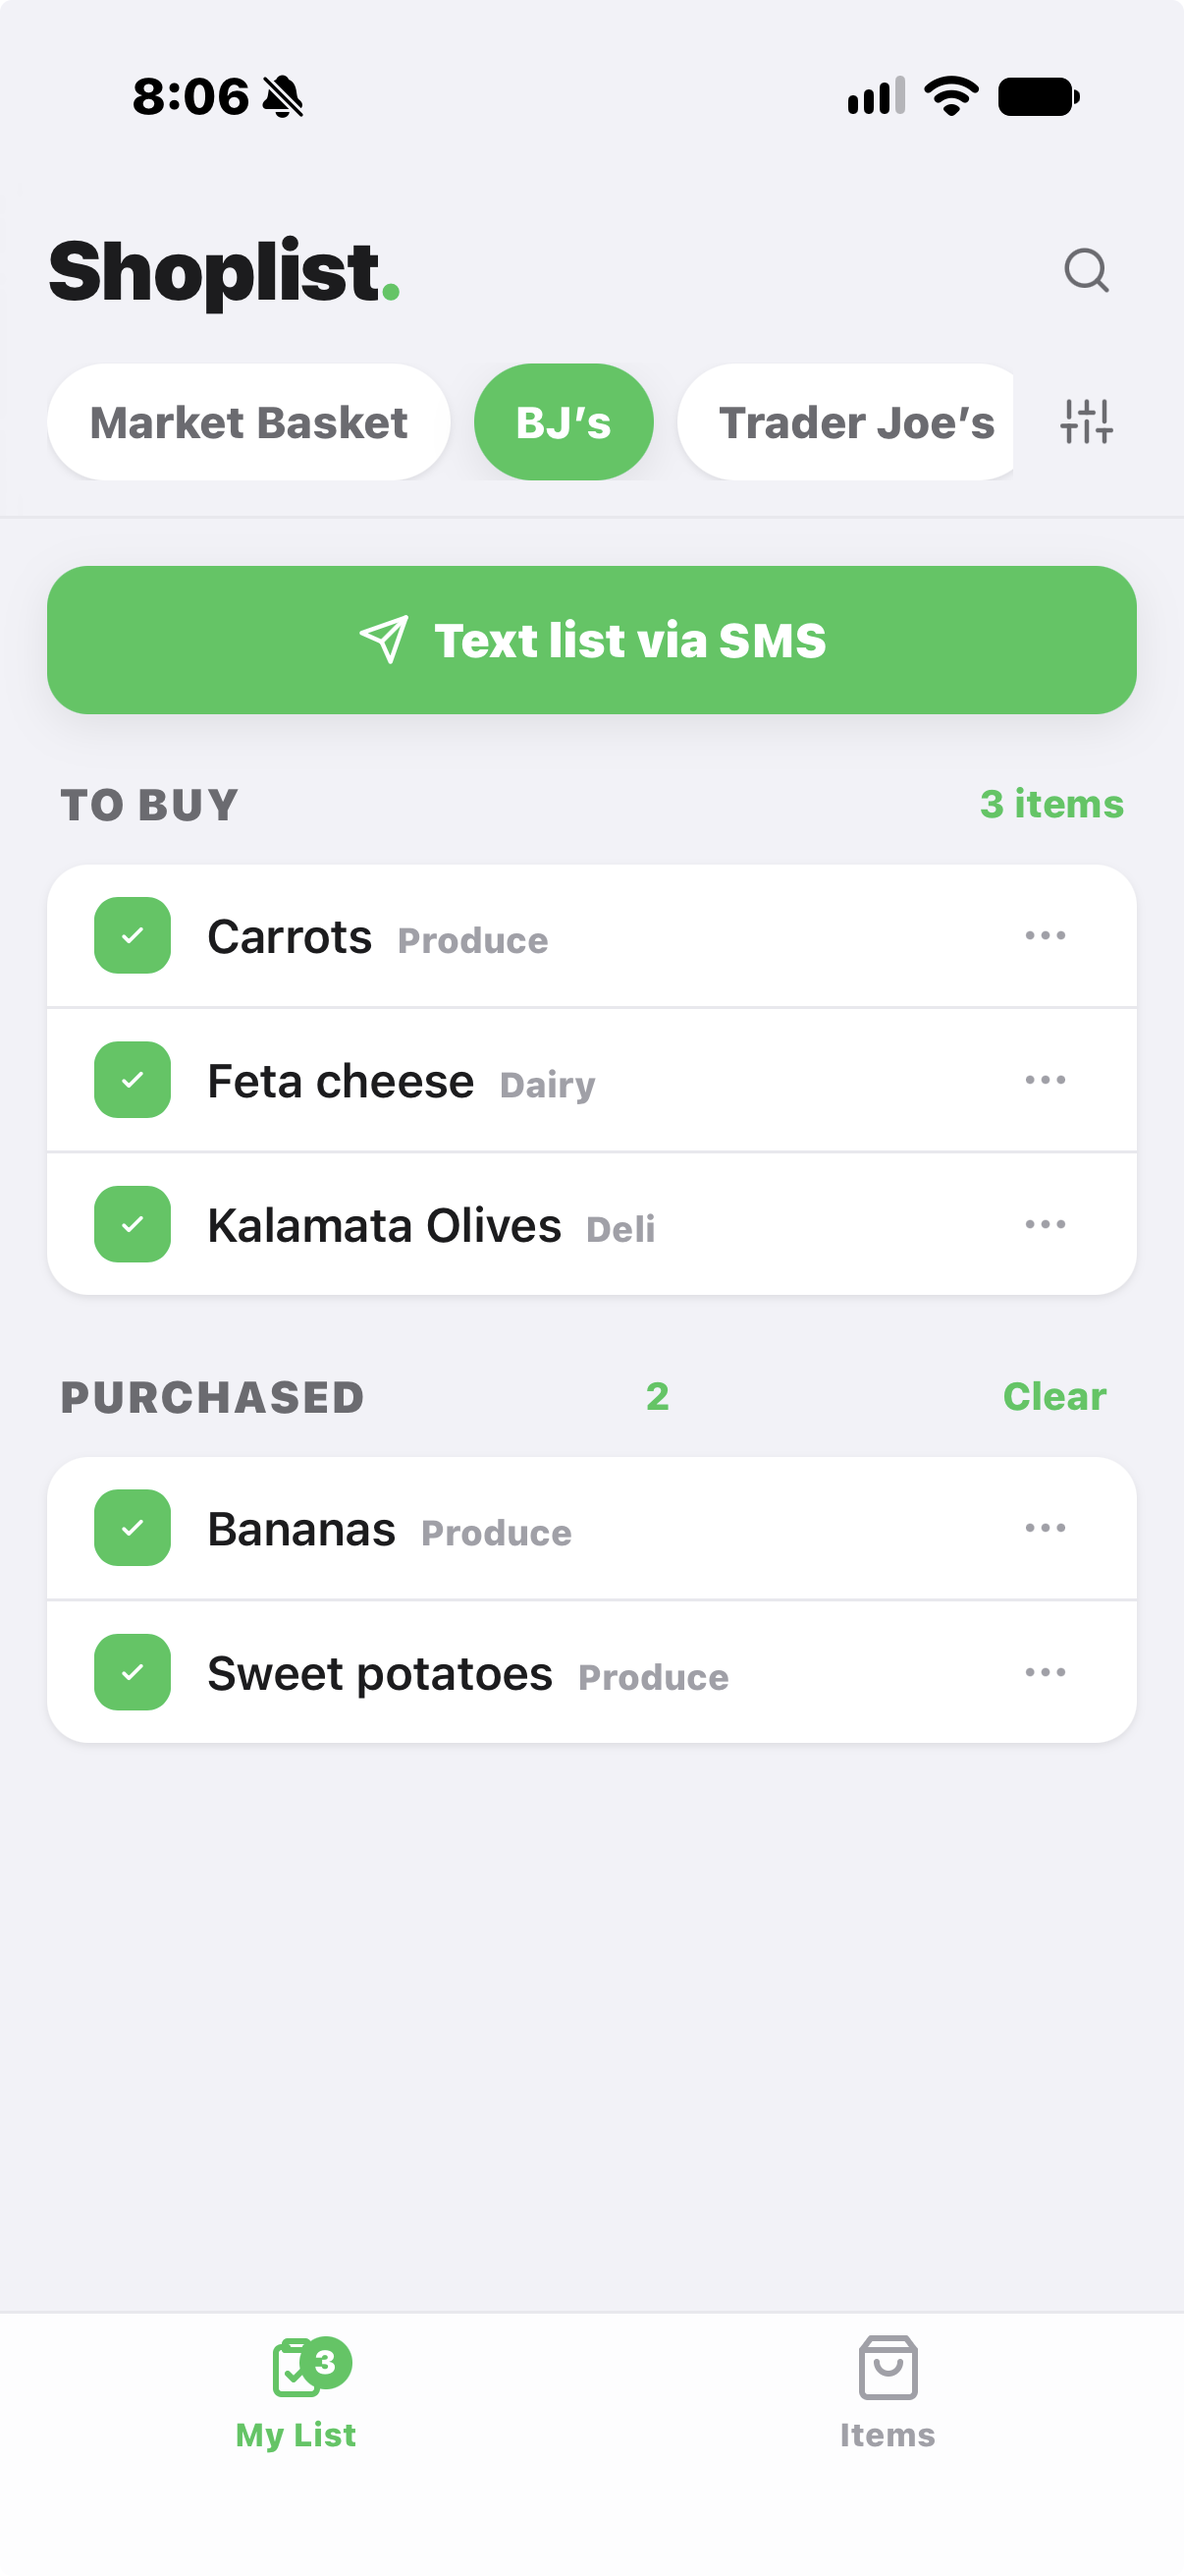
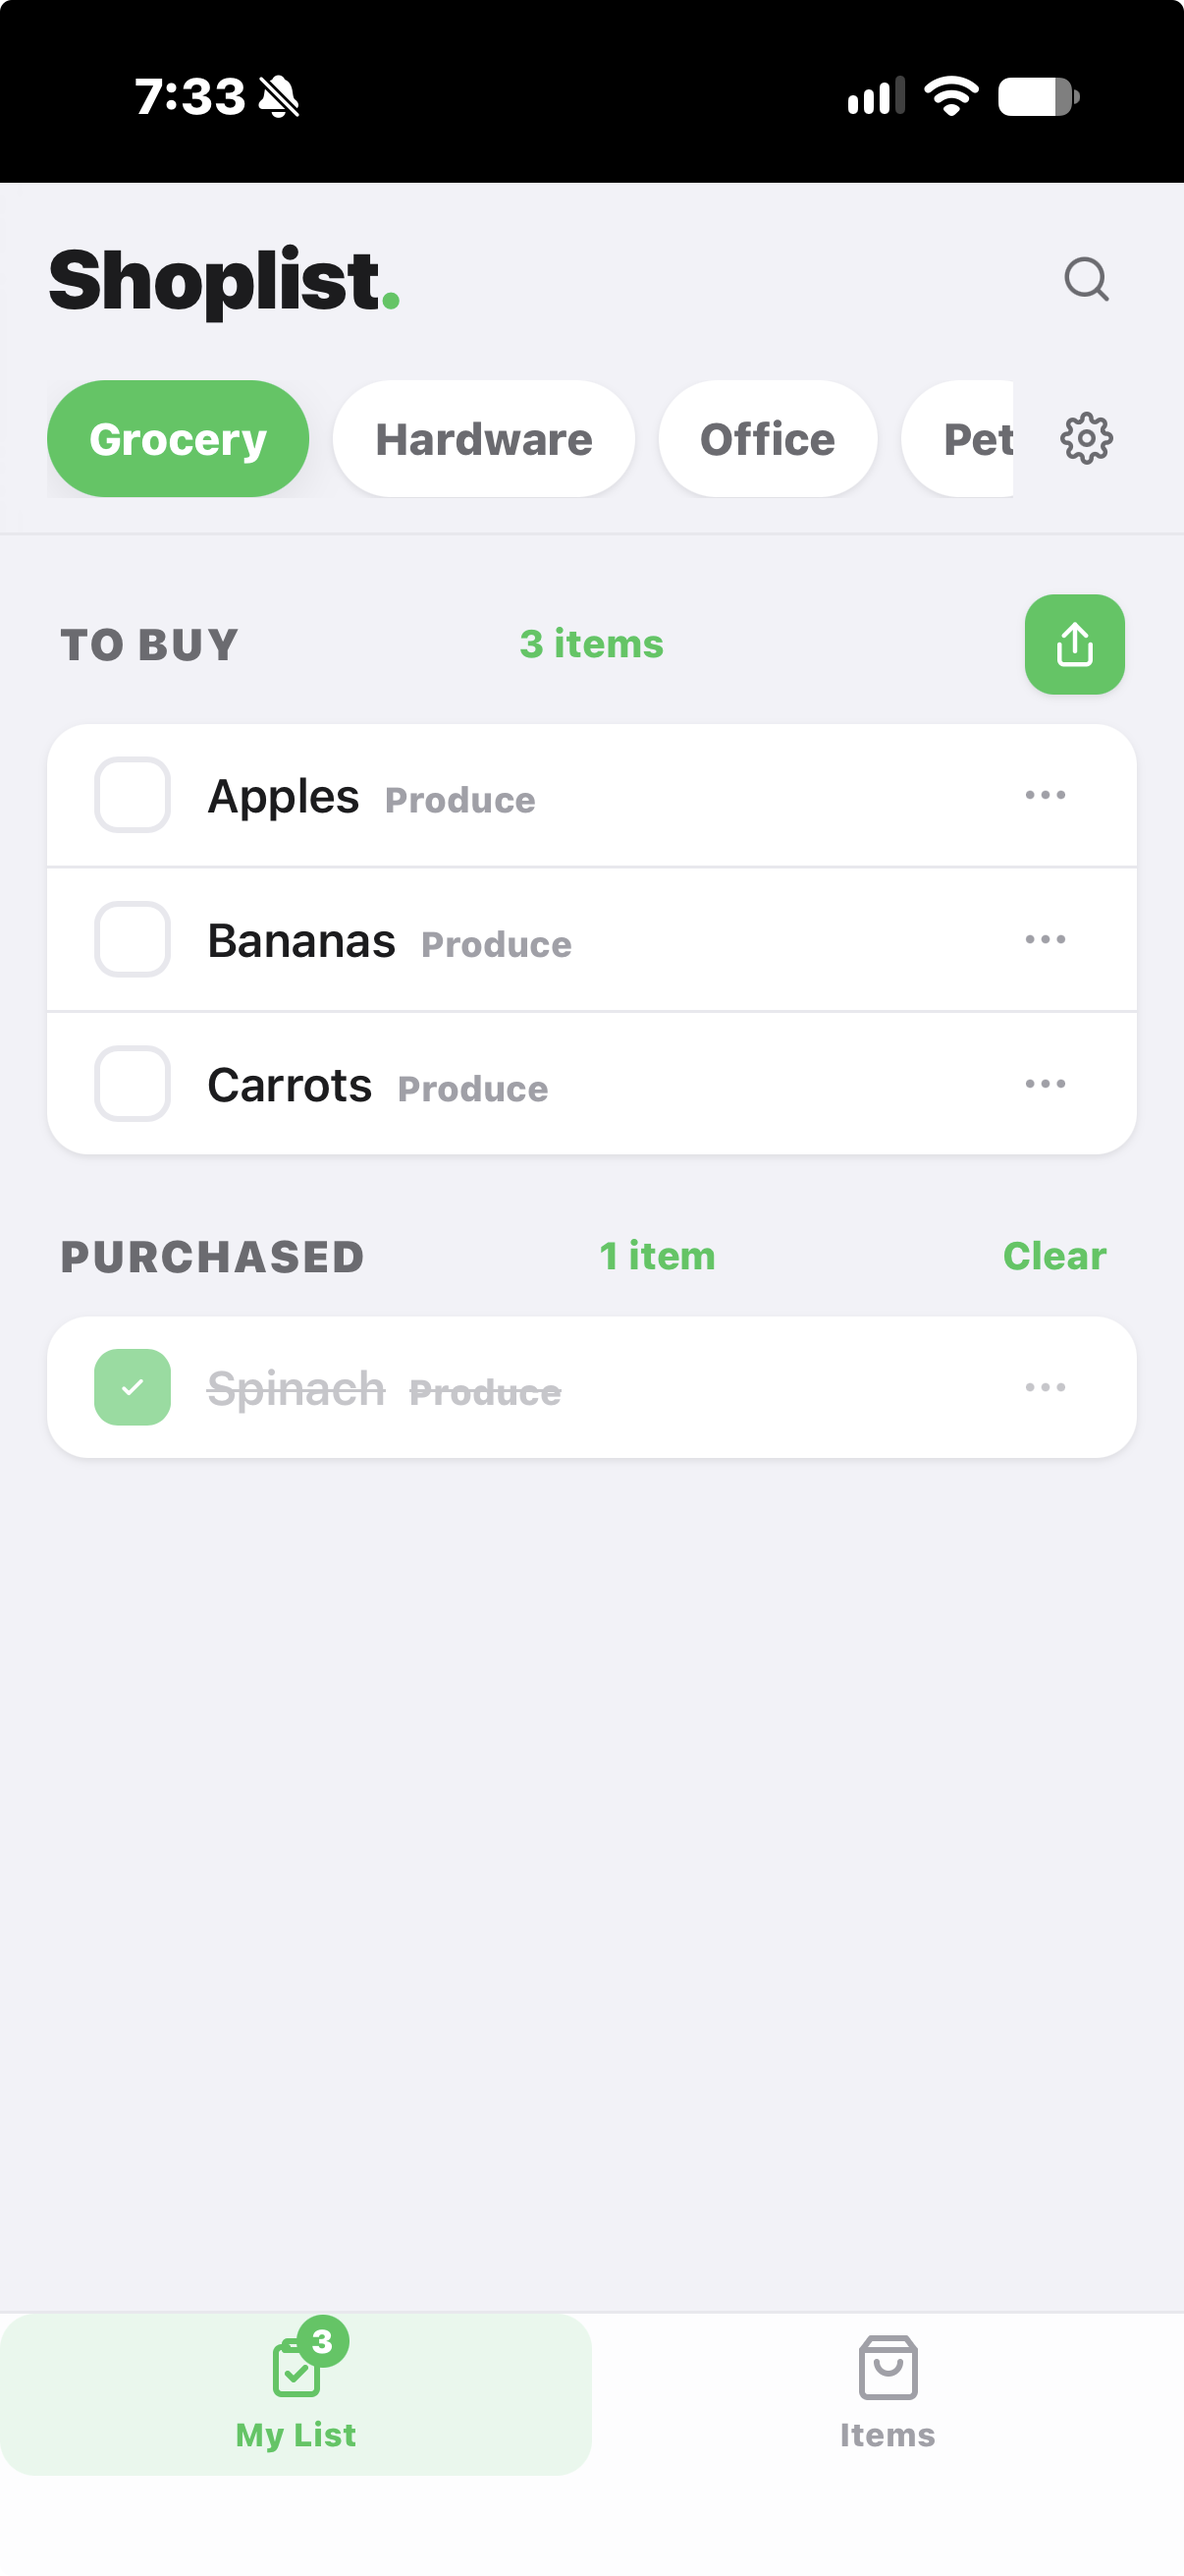
Add updated screenshots and wire new images into README
- Refresh my-list.png, items.png, settings.png, category-options.png
- Add my-list-dark.png (My List in dark mode) and appearance.png (Settings in dark mode)
- Show the dark-mode My List next to the light one in the hero section
- Add a Dark mode column to the screenshot table
- Place appearance.png beside the Appearance docs in the dev section
- Update items.png alt text to mention the item options sheet
- List the new images in the project structure tree

diff --git a/README.md b/README.md
@@ -40,6 +40,7 @@ The **My List** view — your selected items, split into **To buy** and **Purcha
 
 <p align="center">
   <img src="images/my-list.png" alt="My List view — to-buy and purchased items, each with its item count, and a share button" width="260" />
+  <img src="images/my-list-dark.png" alt="My List view in dark mode" width="260" />
 </p>
 
 ---
@@ -77,11 +78,13 @@ Everything in this section is what you need to use Shoplist on your own phone.
     <th align="center">Items</th>
     <th align="center">My List</th>
     <th align="center">Settings</th>
+    <th align="center">Dark mode</th>
   </tr>
   <tr>
-    <td align="center"><img src="images/items.png" alt="Items view — stores, expandable categories, and checkboxes" width="200" /></td>
+    <td align="center"><img src="images/items.png" alt="Items view — stores, expandable categories, blue checkboxes, and the item options sheet" width="200" /></td>
     <td align="center"><img src="images/my-list.png" alt="My List view — to-buy and purchased items, each with its item count" width="200" /></td>
     <td align="center"><img src="images/settings.png" alt="Settings sheet — reorder/rename/delete stores, appearance, and backup" width="200" /></td>
+    <td align="center"><img src="images/appearance.png" alt="Settings sheet in dark mode, with the appearance control" width="200" /></td>
   </tr>
 </table>
 
@@ -162,6 +165,10 @@ The service worker uses a network-first strategy for the page (so you always get
 
 **Appearance.** The app follows your system color scheme by default, or you can force Light or Dark from the **Settings** sheet. A small script in `<head>` resolves the choice (stored in `localStorage`) *before first paint* and sets `data-theme` on `<html>`, so there's no light flash on dark-mode devices. All colors are CSS custom properties; the dark theme overrides only the color variables with the iOS system dark palette.
 
+<p align="center">
+  <img src="images/appearance.png" alt="Settings sheet in dark mode, with the System / Light / Dark appearance control" width="260" />
+</p>
+
 **Sharing.** The share button in the **To buy** header builds a plain-text list and prefers the native `navigator.share()` sheet (attaching a cart card image when the phone supports file sharing), falling back to an SMS / copy sheet otherwise.
 
 Every row (store, category, item) has a **⋮** menu that opens a bottom sheet — e.g. the *Category options* sheet for a category lets you move it up/down, rename, or delete it.
@@ -186,8 +193,10 @@ Shoplist/
 │   └── share-card.png # cart card image attached to the native share sheet
 ├── images/           # README screenshots
 │   ├── my-list.png
+│   ├── my-list-dark.png
 │   ├── items.png
 │   ├── settings.png
+│   ├── appearance.png
 │   └── category-options.png
 ├── LICENSE           # GPL-3.0-or-later
 └── README.md
